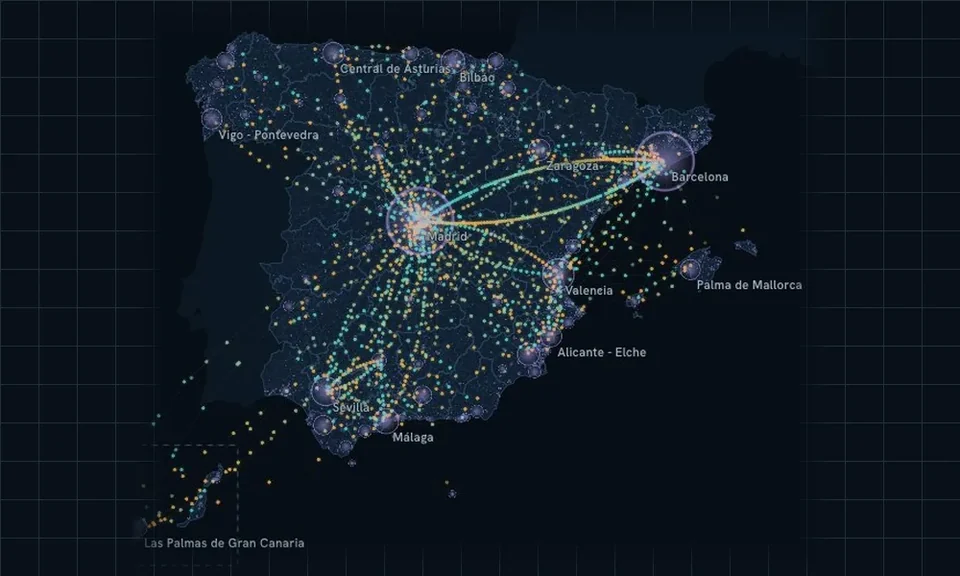
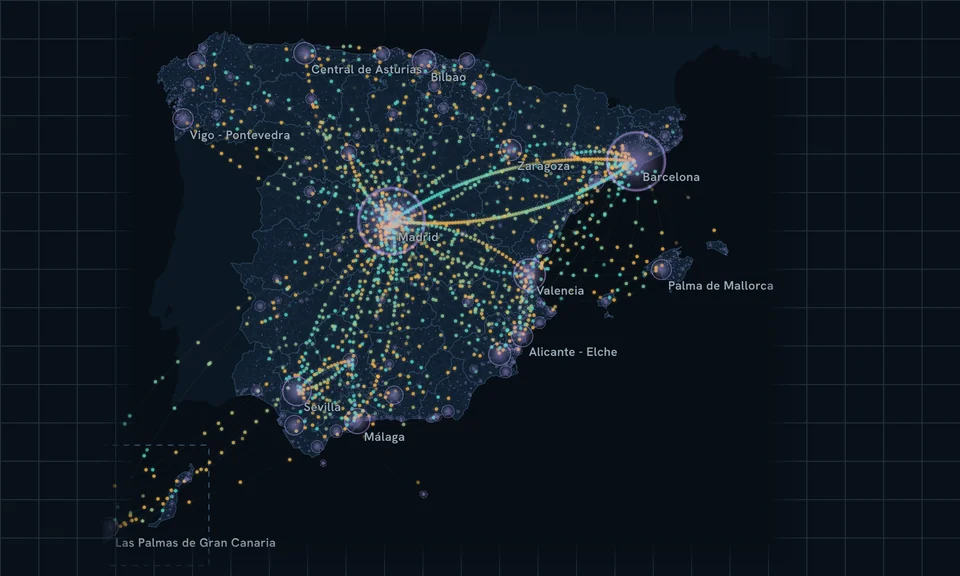
Serve 2000 px featured images
Re-rendered De aquí para allá, Bochorno histórico and Di mi nombre
leads at 2x from their sources.

diff --git a/index.html b/index.html
@@ -33,21 +33,21 @@
 <div class="section-marker"><span aria-hidden="true">01</span><span data-text-en="Featured" data-text-es="Destacado" >Featured</span></div>
 <article class="lead" data-id="di-mi-nombre" data-topics="people places" data-search="di-mi-nombre Di mi nombre Di mi nombre Search any first name or surname in Spain: how many people have it, where they live, how it has changed over generations, and which surnames define each province. Busca cualquier nombre o apellido de España: cuánta gente lo lleva, dónde vive, cómo ha cambiado de una generación a otra y qué apellidos definen cada provincia. Names explorer Explorador de nombres Find out how many people share your name. Descubre cuánta gente se llama como tú. People &amp; Economy Población y economía Places Lugares">
 <a class="item-link" href="https://danielalmazan.com/di-mi-nombre/en/" data-link-en="https://danielalmazan.com/di-mi-nombre/en/" data-link-es="https://danielalmazan.com/di-mi-nombre/">
-<div class="art"><img src="/assets/portfolio/di-mi-nombre-5504f17c5a2c.webp" srcset="/assets/portfolio/di-mi-nombre-5504f17c5a2c.webp 960w, /assets/portfolio/di-mi-nombre-lead-3f762bb0ec3b.webp 1000w" sizes="(max-width: 720px) 94vw, 56vw" width="640" height="384" alt="" fetchpriority="high" decoding="async"></div>
+<div class="art"><img src="/assets/portfolio/di-mi-nombre-303cf7c848fb.webp" srcset="/assets/portfolio/di-mi-nombre-303cf7c848fb.webp 960w, /assets/portfolio/di-mi-nombre-lead-71984375c3f7.webp 2000w" sizes="(max-width: 720px) 94vw, 56vw" width="640" height="384" alt="" fetchpriority="high" decoding="async"></div>
 <div class="item-copy"><div class="item-meta"><span data-text-en="Names explorer" data-text-es="Explorador de nombres" class="item-format">Names explorer</span><time class="date" datetime="2026-11-07" aria-label="Page last uploaded / updated: 7 November 2026" title="Page last uploaded / updated: 7 November 2026" data-label-en="Page last uploaded / updated: 7 November 2026" data-label-es="Última publicación / actualización de la página: 7 de noviembre de 2026" data-text-en="Nov-26" data-text-es="Nov-26">Nov-26</time></div>
 <h2 data-text-en="Di mi nombre" data-text-es="Di mi nombre" >Di mi nombre</h2>
 <p data-text-en="Find out how many people share your name." data-text-es="Descubre cuánta gente se llama como tú." >Find out how many people share your name.</p>
 
 </div><span class="item-arrow" aria-hidden="true">↗</span></a></article><div class="supporting"><article class="support" data-id="bochorno-historico" data-topics="climate places" data-search="bochorno-historico Bochorno histórico Bochorno histórico Explore AEMET temperature observations from 1961 to 2025 across 96 stations, with annual trends, monthly stripes, daily records and anomaly distributions. Explora las observaciones de temperatura de AEMET de 1961 a 2025 en 96 estaciones, con evolución anual, franjas mensuales, registros diarios y distribuciones de anomalías. Temperature atlas Atlas de temperaturas Explore Spain’s changing temperatures, station by station. Explora cómo cambia la temperatura en España, estación por estación. Climate Clima Places Lugares">
 <a class="item-link" href="https://danielalmazan.com/bochorno-historico/en/" data-link-en="https://danielalmazan.com/bochorno-historico/en/" data-link-es="https://danielalmazan.com/bochorno-historico/">
-<div class="art"><img src="/assets/portfolio/bochorno-historico-ca9a484a70e8.webp" srcset="/assets/portfolio/bochorno-historico-small-a80aa0708600.webp 480w, /assets/portfolio/bochorno-historico-ca9a484a70e8.webp 960w" sizes="auto, (max-width: 720px) 45vw, 30vw" width="640" height="384" alt="" loading="lazy" decoding="async"></div>
+<div class="art"><img src="/assets/portfolio/bochorno-historico-eefa359af592.webp" srcset="/assets/portfolio/bochorno-historico-small-e004ac806d17.webp 480w, /assets/portfolio/bochorno-historico-eefa359af592.webp 960w" sizes="auto, (max-width: 720px) 45vw, 30vw" width="640" height="384" alt="" loading="lazy" decoding="async"></div>
 <div class="item-copy"><div class="item-meta"><span data-text-en="Temperature atlas" data-text-es="Atlas de temperaturas" class="item-format">Temperature atlas</span><time class="date" datetime="2026-11-07" aria-label="Page last uploaded / updated: 7 November 2026" title="Page last uploaded / updated: 7 November 2026" data-label-en="Page last uploaded / updated: 7 November 2026" data-label-es="Última publicación / actualización de la página: 7 de noviembre de 2026" data-text-en="Nov-26" data-text-es="Nov-26">Nov-26</time></div>
 <h3 data-text-en="Bochorno histórico" data-text-es="Bochorno histórico" >Bochorno histórico</h3>
 <p data-text-en="Explore Spain’s changing temperatures, station by station." data-text-es="Explora cómo cambia la temperatura en España, estación por estación." >Explore Spain’s changing temperatures, station by station.</p>
 
 </div><span class="item-arrow" aria-hidden="true">↗</span></a></article><article class="support" data-id="de-aqui-para-alla" data-topics="mobility places" data-search="de-aqui-para-alla De aquí para allá De aquí para allá Watch how Spain moves, hour by hour, in a living map of trips between municipalities built from the Ministry of Transport’s open mobility data. Mira cómo se mueve España, hora a hora, en un mapa vivo de los viajes entre municipios hecho con los datos abiertos de movilidad del Ministerio de Transportes. Mobility map Mapa de movilidad See how Spain moves, hour by hour. Mira cómo se mueve España, hora a hora. Mobility Movilidad Places Lugares">
 <a class="item-link" href="https://danielalmazan.com/de-aqui-para-alla/en/" data-link-en="https://danielalmazan.com/de-aqui-para-alla/en/" data-link-es="https://danielalmazan.com/de-aqui-para-alla/">
-<div class="art"><img src="/assets/portfolio/de-aqui-para-alla-0eba12b04b45.webp" srcset="/assets/portfolio/de-aqui-para-alla-small-04fecb3ad759.webp 480w, /assets/portfolio/de-aqui-para-alla-0eba12b04b45.webp 960w" sizes="auto, (max-width: 720px) 45vw, 30vw" width="640" height="384" alt="" loading="lazy" decoding="async"></div>
+<div class="art"><img src="/assets/portfolio/de-aqui-para-alla-773e9acdc112.webp" srcset="/assets/portfolio/de-aqui-para-alla-small-1068390153d6.webp 480w, /assets/portfolio/de-aqui-para-alla-773e9acdc112.webp 960w" sizes="auto, (max-width: 720px) 45vw, 30vw" width="640" height="384" alt="" loading="lazy" decoding="async"></div>
 <div class="item-copy"><div class="item-meta"><span data-text-en="Mobility map" data-text-es="Mapa de movilidad" class="item-format">Mobility map</span><time class="date" datetime="2026-11-06" aria-label="Page last uploaded / updated: 6 November 2026" title="Page last uploaded / updated: 6 November 2026" data-label-en="Page last uploaded / updated: 6 November 2026" data-label-es="Última publicación / actualización de la página: 6 de noviembre de 2026" data-text-en="Nov-26" data-text-es="Nov-26">Nov-26</time></div>
 <h3 data-text-en="De aquí para allá" data-text-es="De aquí para allá" >De aquí para allá</h3>
 <p data-text-en="See how Spain moves, hour by hour." data-text-es="Mira cómo se mueve España, hora a hora." >See how Spain moves, hour by hour.</p>
@@ -59,14 +59,14 @@
 <div class="empty" hidden><p data-text-en="No projects found." data-text-es="No se han encontrado proyectos." >No projects found.</p><button type="button" data-reset><span data-text-en="Clear search and filters" data-text-es="Borrar búsqueda y filtros" >Clear search and filters</span></button></div>
 <div class="collection"><article class="project" data-id="bochorno-historico" data-topics="climate places" data-search="bochorno-historico Bochorno histórico Bochorno histórico Explore AEMET temperature observations from 1961 to 2025 across 96 stations, with annual trends, monthly stripes, daily records and anomaly distributions. Explora las observaciones de temperatura de AEMET de 1961 a 2025 en 96 estaciones, con evolución anual, franjas mensuales, registros diarios y distribuciones de anomalías. Temperature atlas Atlas de temperaturas Explore Spain’s changing temperatures, station by station. Explora cómo cambia la temperatura en España, estación por estación. Climate Clima Places Lugares">
 <a class="item-link" href="https://danielalmazan.com/bochorno-historico/en/" data-link-en="https://danielalmazan.com/bochorno-historico/en/" data-link-es="https://danielalmazan.com/bochorno-historico/">
-<div class="art"><img src="/assets/portfolio/bochorno-historico-ca9a484a70e8.webp" srcset="/assets/portfolio/bochorno-historico-small-a80aa0708600.webp 480w, /assets/portfolio/bochorno-historico-ca9a484a70e8.webp 960w" sizes="auto, (max-width: 720px) 45vw, 30vw" width="640" height="384" alt="" loading="lazy" decoding="async"></div>
+<div class="art"><img src="/assets/portfolio/bochorno-historico-eefa359af592.webp" srcset="/assets/portfolio/bochorno-historico-small-e004ac806d17.webp 480w, /assets/portfolio/bochorno-historico-eefa359af592.webp 960w" sizes="auto, (max-width: 720px) 45vw, 30vw" width="640" height="384" alt="" loading="lazy" decoding="async"></div>
 <div class="item-copy"><div class="item-meta"><span data-text-en="Temperature atlas" data-text-es="Atlas de temperaturas" class="item-format">Temperature atlas</span><time class="date" datetime="2026-11-07" aria-label="Page last uploaded / updated: 7 November 2026" title="Page last uploaded / updated: 7 November 2026" data-label-en="Page last uploaded / updated: 7 November 2026" data-label-es="Última publicación / actualización de la página: 7 de noviembre de 2026" data-text-en="Nov-26" data-text-es="Nov-26">Nov-26</time></div>
 <h3 data-text-en="Bochorno histórico" data-text-es="Bochorno histórico" >Bochorno histórico</h3>
 <p data-text-en="Explore Spain’s changing temperatures, station by station." data-text-es="Explora cómo cambia la temperatura en España, estación por estación." >Explore Spain’s changing temperatures, station by station.</p>
 
 </div><span class="item-arrow" aria-hidden="true">↗</span></a></article><article class="project" data-id="di-mi-nombre" data-topics="people places" data-search="di-mi-nombre Di mi nombre Di mi nombre Search any first name or surname in Spain: how many people have it, where they live, how it has changed over generations, and which surnames define each province. Busca cualquier nombre o apellido de España: cuánta gente lo lleva, dónde vive, cómo ha cambiado de una generación a otra y qué apellidos definen cada provincia. Names explorer Explorador de nombres Find out how many people share your name. Descubre cuánta gente se llama como tú. People &amp; Economy Población y economía Places Lugares">
 <a class="item-link" href="https://danielalmazan.com/di-mi-nombre/en/" data-link-en="https://danielalmazan.com/di-mi-nombre/en/" data-link-es="https://danielalmazan.com/di-mi-nombre/">
-<div class="art"><img src="/assets/portfolio/di-mi-nombre-5504f17c5a2c.webp" srcset="/assets/portfolio/di-mi-nombre-small-c1c6fcdad2ba.webp 480w, /assets/portfolio/di-mi-nombre-5504f17c5a2c.webp 960w" sizes="auto, (max-width: 720px) 45vw, 30vw" width="640" height="384" alt="" loading="lazy" decoding="async"></div>
+<div class="art"><img src="/assets/portfolio/di-mi-nombre-303cf7c848fb.webp" srcset="/assets/portfolio/di-mi-nombre-small-8ae0569ddaa3.webp 480w, /assets/portfolio/di-mi-nombre-303cf7c848fb.webp 960w" sizes="auto, (max-width: 720px) 45vw, 30vw" width="640" height="384" alt="" loading="lazy" decoding="async"></div>
 <div class="item-copy"><div class="item-meta"><span data-text-en="Names explorer" data-text-es="Explorador de nombres" class="item-format">Names explorer</span><time class="date" datetime="2026-11-07" aria-label="Page last uploaded / updated: 7 November 2026" title="Page last uploaded / updated: 7 November 2026" data-label-en="Page last uploaded / updated: 7 November 2026" data-label-es="Última publicación / actualización de la página: 7 de noviembre de 2026" data-text-en="Nov-26" data-text-es="Nov-26">Nov-26</time></div>
 <h3 data-text-en="Di mi nombre" data-text-es="Di mi nombre" >Di mi nombre</h3>
 <p data-text-en="Find out how many people share your name." data-text-es="Descubre cuánta gente se llama como tú." >Find out how many people share your name.</p>
@@ -80,7 +80,7 @@
 
 </div><span class="item-arrow" aria-hidden="true">↗</span></a></article><article class="project" data-id="de-aqui-para-alla" data-topics="mobility places" data-search="de-aqui-para-alla De aquí para allá De aquí para allá Watch how Spain moves, hour by hour, in a living map of trips between municipalities built from the Ministry of Transport’s open mobility data. Mira cómo se mueve España, hora a hora, en un mapa vivo de los viajes entre municipios hecho con los datos abiertos de movilidad del Ministerio de Transportes. Mobility map Mapa de movilidad See how Spain moves, hour by hour. Mira cómo se mueve España, hora a hora. Mobility Movilidad Places Lugares">
 <a class="item-link" href="https://danielalmazan.com/de-aqui-para-alla/en/" data-link-en="https://danielalmazan.com/de-aqui-para-alla/en/" data-link-es="https://danielalmazan.com/de-aqui-para-alla/">
-<div class="art"><img src="/assets/portfolio/de-aqui-para-alla-0eba12b04b45.webp" srcset="/assets/portfolio/de-aqui-para-alla-small-04fecb3ad759.webp 480w, /assets/portfolio/de-aqui-para-alla-0eba12b04b45.webp 960w" sizes="auto, (max-width: 720px) 45vw, 30vw" width="640" height="384" alt="" loading="lazy" decoding="async"></div>
+<div class="art"><img src="/assets/portfolio/de-aqui-para-alla-773e9acdc112.webp" srcset="/assets/portfolio/de-aqui-para-alla-small-1068390153d6.webp 480w, /assets/portfolio/de-aqui-para-alla-773e9acdc112.webp 960w" sizes="auto, (max-width: 720px) 45vw, 30vw" width="640" height="384" alt="" loading="lazy" decoding="async"></div>
 <div class="item-copy"><div class="item-meta"><span data-text-en="Mobility map" data-text-es="Mapa de movilidad" class="item-format">Mobility map</span><time class="date" datetime="2026-11-06" aria-label="Page last uploaded / updated: 6 November 2026" title="Page last uploaded / updated: 6 November 2026" data-label-en="Page last uploaded / updated: 6 November 2026" data-label-es="Última publicación / actualización de la página: 6 de noviembre de 2026" data-text-en="Nov-26" data-text-es="Nov-26">Nov-26</time></div>
 <h3 data-text-en="De aquí para allá" data-text-es="De aquí para allá" >De aquí para allá</h3>
 <p data-text-en="See how Spain moves, hour by hour." data-text-es="Mira cómo se mueve España, hora a hora." >See how Spain moves, hour by hour.</p>
